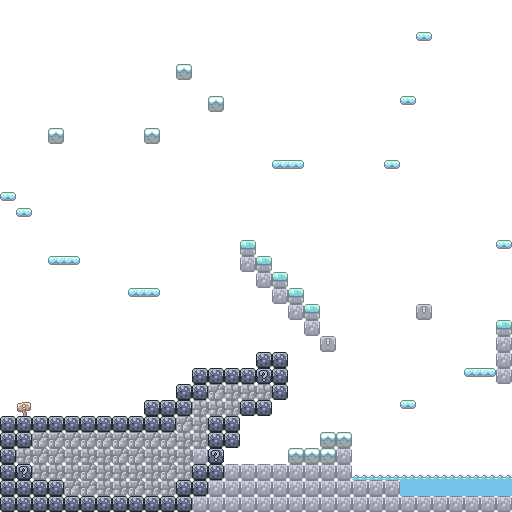
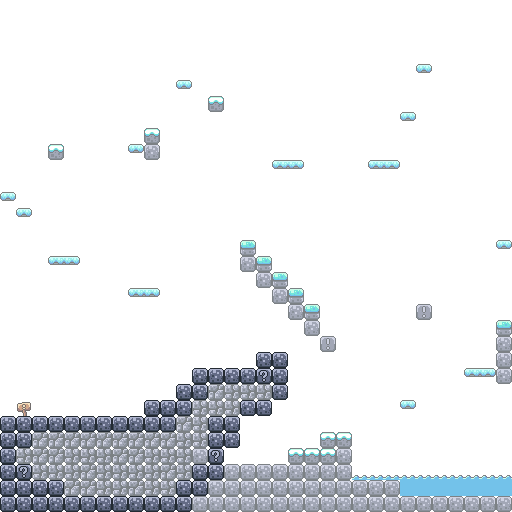
world 3 base level done could have improvements

diff --git a/World3.java b/World3.java
@@ -23,40 +23,75 @@ public class World3 extends World
     
     private void prepare(Player player)
     {
-        addObject(player, 50, 50);
+        addObject(player, 50, 400);
+        addObject(new Coin(false), 24, 472);
+        addObject(new Portal(), 504, 230);
+        
         setBackground("world3Outside.png");
         for(int i = 0; i < 4; i++)addObject(new platforms1(), 8, 424 + i * 16);
         for(int i = 0; i < 4; i++)addObject(new platforms1(), 8 + i * 16, 488);
+        addObject(new platforms2(), 8, 198);
         
         for(int i = 0; i < 2; i++)addObject(new platforms1(), 24, 424 + i * 16);
-    
+        addObject(new platforms2(), 24, 214);
+        
         
         for(int i = 0; i < 9; i++)addObject(new platforms1(), 40 + i * 16, 424);
         
+        for(int i = 0; i < 2; i++)addObject(new platforms2(), 56 + i * 16, 262);
+        addObject(new platforms1(), 56, 152);
+        
         for(int i = 0; i < 28; i++)addObject(new platforms1(), 72 + i * 16, 504);
         
+        for(int i = 0; i < 2; i++)addObject(new platforms2(), 136 + i * 16, 294);
+        addObject(new platforms2(), 136, 150);
+        
         for(int i = 0; i < 3; i++)addObject(new platforms1(), 152 + i * 16, 408);
+        for(int i = 0; i < 2; i++)addObject(new platforms1(), 152, 136 + i * 16);
         
         for(int i = 0; i < 2; i++)addObject(new platforms1(), 184 + i * 16, 392);
         addObject(new platforms1(), 184, 488);
+        addObject(new platforms2(), 184, 86);
         
         for(int i = 0; i < 6; i++)addObject(new platforms1(), 200 + i * 16, 472);
-        
         for(int i = 0; i < 4; i++)addObject(new platforms1(), 200 + i * 16, 376);
         for(int i = 0; i < 2; i++)for(int x = 0; x < 2; x++)addObject(new platforms1(), 216 + x * 16, 424 + i * 16);
         
+        addObject(new platforms1(), 216, 104);
+        
+        for(int i = 0; i < 2; i++)addObject(new platforms1(), 248, 264 - i * 16);
+        
         for(int i = 0; i < 2; i++)addObject(new platforms1(), 264 + i * 16, 360);
         for(int i = 0; i < 2; i++)addObject(new platforms1(), 264 - i * 16, 408);
+        for(int i = 0; i < 2; i++)addObject(new platforms1(), 264, 280 - i * 16);
         
         for(int i = 0; i < 3; i++)addObject(new platforms1(), 280 + i * 16, 456);
         for(int i = 0; i < 2; i++)addObject(new platforms1(), 280, 376 + i * 16);
-            
-        addObject(new platforms1(), 328, 440);
+        for(int i = 0; i < 2; i++)addObject(new platforms1(), 280, 296 - i * 16);
+        for(int i = 0; i < 2; i++)addObject(new platforms2(), 280 + i * 16, 166);
         
+        for(int i = 0; i < 2; i++)addObject(new platforms1(), 296, 312 - i * 16);
+        
+        for(int i = 0; i < 2; i++)addObject(new platforms1(), 312, 328 - i * 16);
+
+        addObject(new platforms1(), 328, 440);
+        addObject(new platforms1(), 328, 344);
+
         for(int i = 0; i < 3; i++)addObject(new platforms1(), 344, 472 - i * 16);
+        
         for(int i = 0; i < 3; i++)addObject(new platforms1(), 360 + i * 16, 488);
         
-        addObject(new platforms2(), 408, 406);
+        for(int i = 0; i < 2; i++)addObject(new platforms2(), 392 - i * 16, 166);
         
+        addObject(new platforms2(), 408, 406);
+        addObject(new platforms2(), 408, 118);
+        
+        addObject(new platforms1(), 424, 312);
+        addObject(new platforms2(), 424, 70);
+        
+        for(int i = 0; i < 2; i++)addObject(new platforms2(), 472 + i * 16, 374);
+        
+        for(int i = 0; i < 4; i++)addObject(new platforms1(), 504, 376 - i * 16);
+        addObject(new platforms2(), 504, 246);
     }
 }
